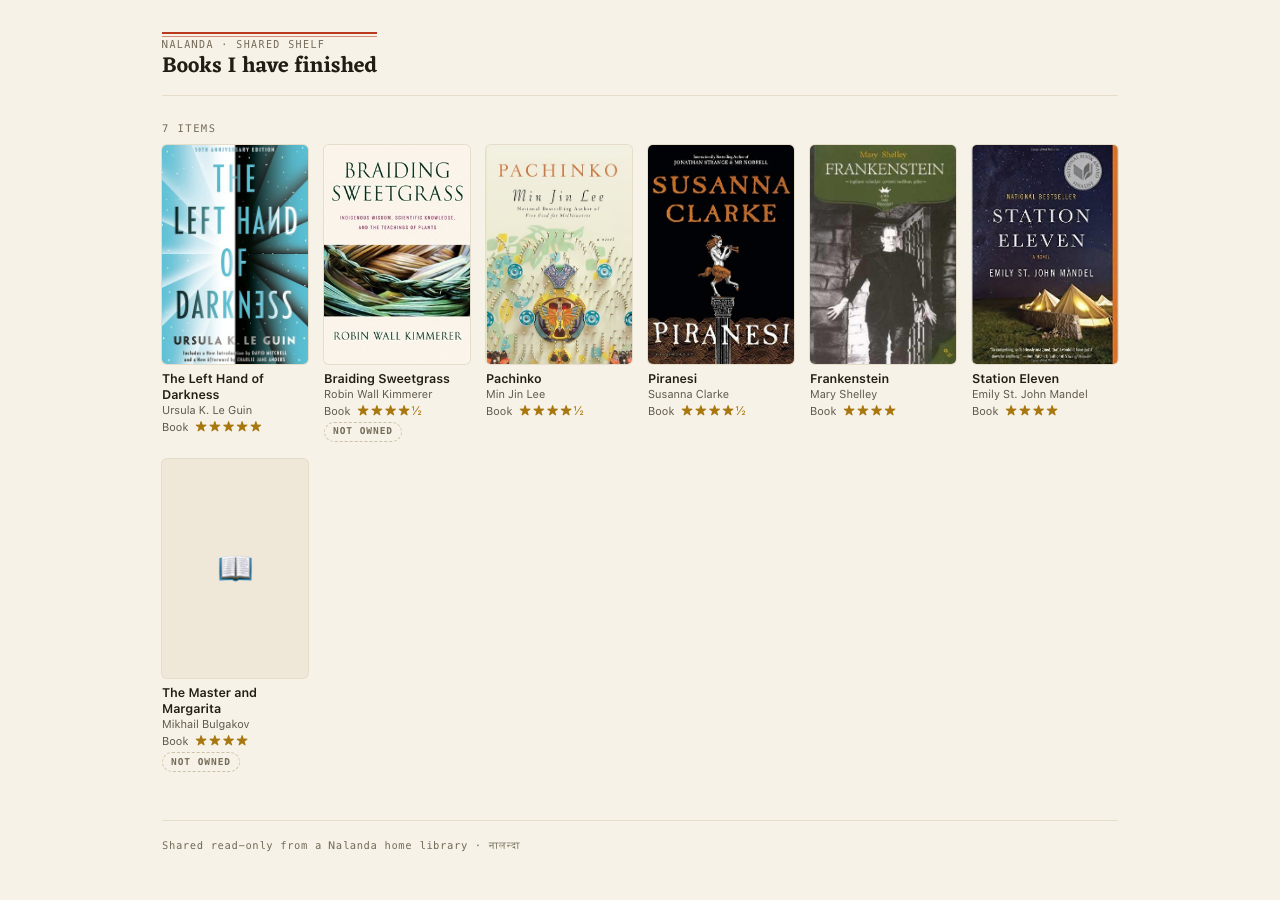
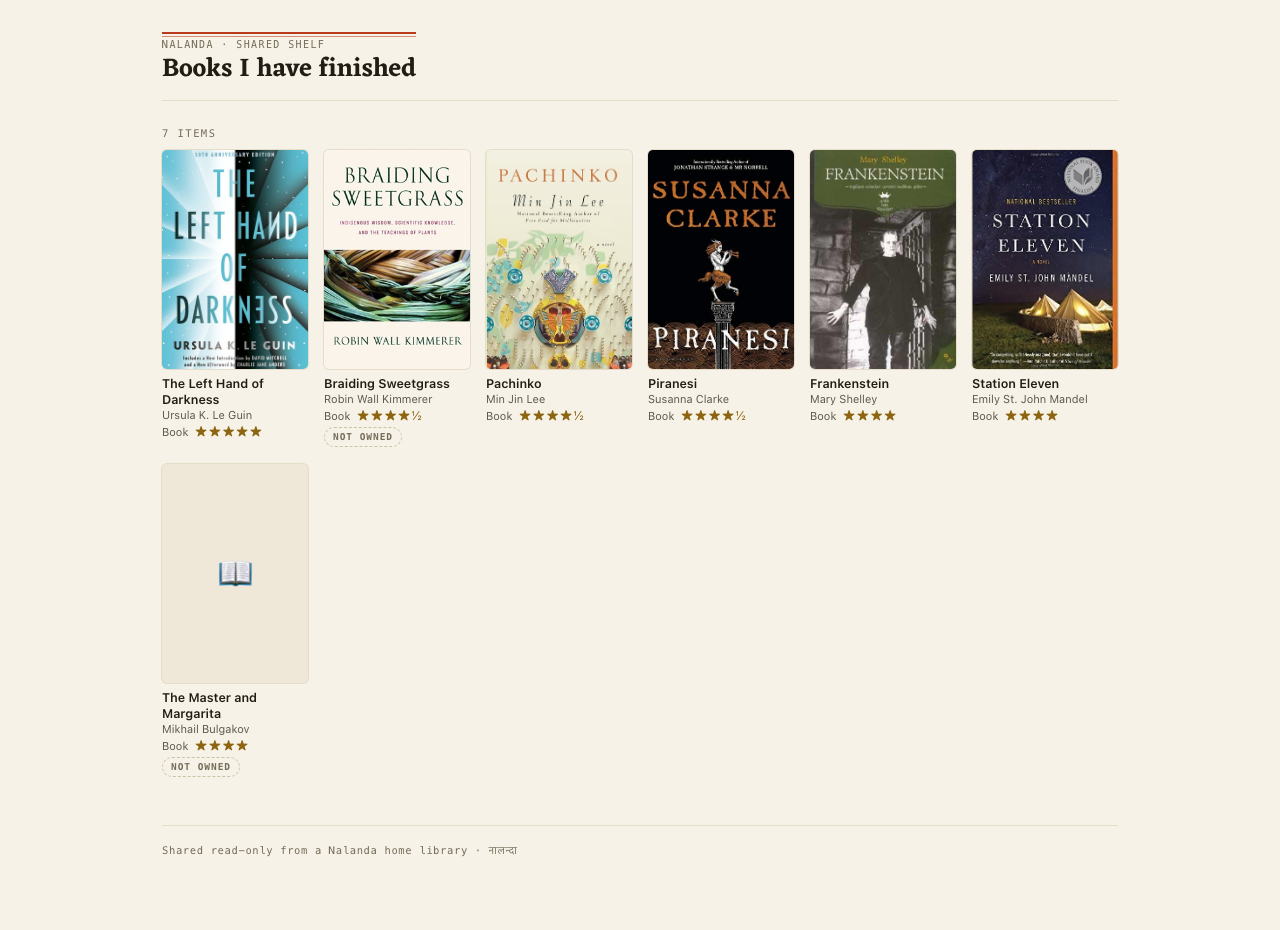
docs: README screenshots retaken from the demo after the phone-sized pass, and a phone pair — a shelf as a list, an item's head

diff --git a/docs/screenshots/README.md b/docs/screenshots/README.md
@@ -13,11 +13,11 @@ npm run seed:demo   # terminal 2 — twenty items, one loan, one published share
 The demo instance is fully separate from `npm run dev`: a different port and a different
 `--persist-to` directory, so seeding can't touch your own local database.
 
-Shots are 1280px wide, light mode except `shelf-dark.png`. Headless browsers inherit the
-system appearance, so capturing light mode on a dark-themed machine means neutralising the
-`@media (prefers-color-scheme: dark)` block in `public/app.css` before the screenshot.
-`columns-menu.png` has its dropdown forced open by stamping the `open` attribute
-server-side, since headless can't click.
+Shots are 1280px wide, light mode except `shelf-dark.png`; `phone.png` is a shelf and an item page side by side at
+390px (device scale 2, halved), joined with ImageMagick's `+append`. Playwright's Chromium (the one `npm run a11y`
+uses) takes them: its `colorScheme` option picks the theme, whatever the machine's appearance, a click opens
+`columns-menu.png`'s dropdown, and `localStorage['nalanda:hidden-columns'] = ''` before load shows every column (a
+window under 1400px otherwise starts without Tags).
 
 The cover art visible in these images was fetched by the app from Open Library, Google
 Books, and Discogs at seed time. It remains the property of the respective publishers and

diff --git a/README.md b/README.md
@@ -50,6 +50,12 @@ And a lamp-lit dark mode that follows the system setting:
 
 ![The same shelf in dark mode — warm blacks, pigments glowing](docs/screenshots/shelf-dark.png)
 
+On a phone it is built for a thumb: a shelf opens on its search box and one Filters button, its
+items a list; an item opens on its cover beside its title, with Edit in reach; Search and Add are
+in the bar on every page:
+
+![On a phone: a shelf as a list of covers and titles under a search box and a Filters button, and an item page with its cover beside the title, tags and Edit](docs/screenshots/phone.png)
+
 The design system is hand-written — "the manuscript ledger", grounded in Nalanda's Pala-era
 scriptorium: palm-leaf paper, indigo and vermilion, Devanagari-first display type, no CSS
 framework (ARCH.md §16 #16). Screenshots come from seeded demo data — `npm run dev:demo` and
